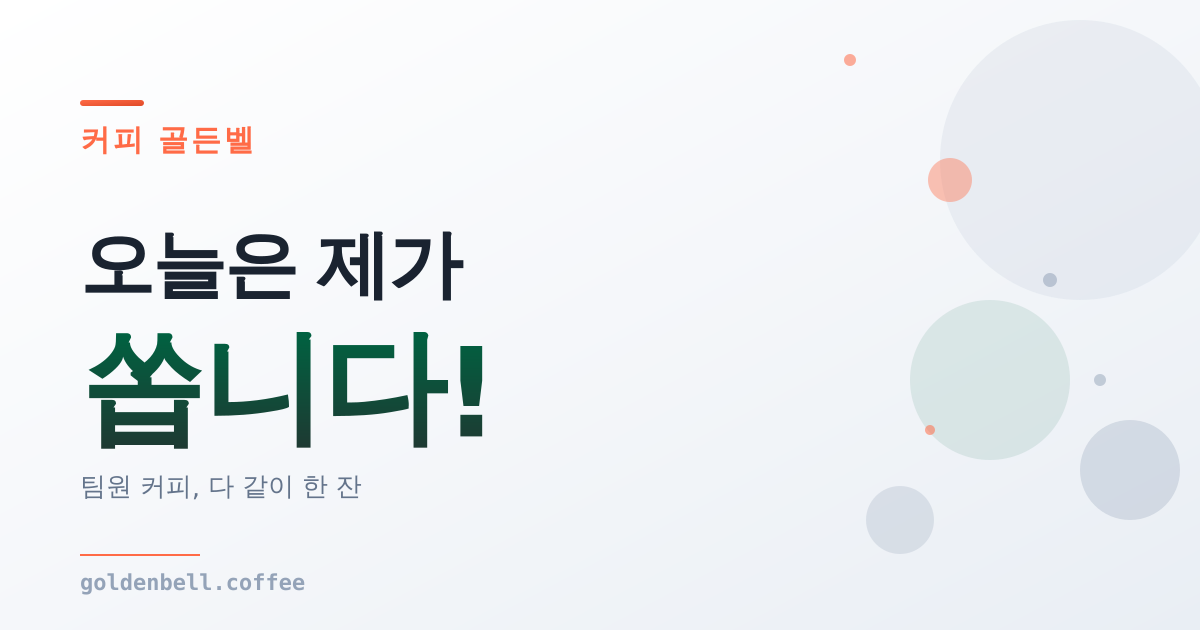
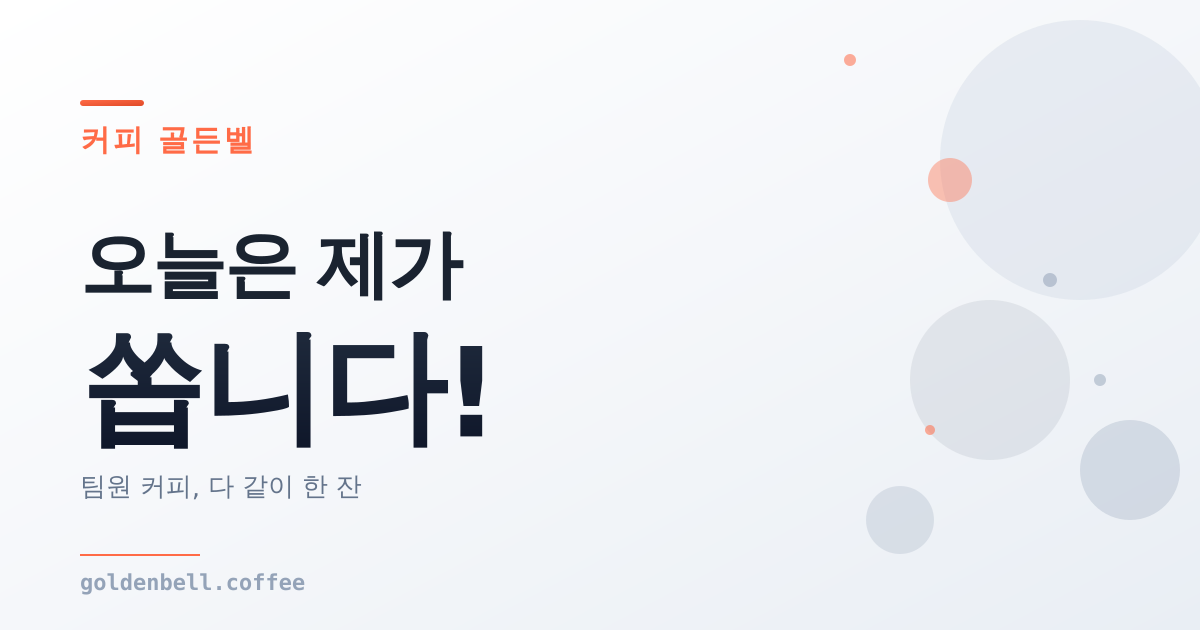
다크 그린 → 딥 네이비로 교체 (코랄과 조화)
코랄(#FF6B47)과 다크 그린(#006241)은 따뜻 계열끼리 서로 다른
방향이라 살짝 충돌. 딥 네이비(slate-800/900)로 교체해 코랄이
또렷하게 살도록.

변경:
- --sb-green: #006241 → #1e293b (slate-800)
- --sb-green-dark: #1e3932 → #0f172a (slate-900)
- --sb-green-rgb: 0,98,65 → 30,41,59
- --sb-light: #d4e9e2 → #e2e8f0 (slate-200)

영향 범위 (그린이 쓰이던 곳 자동 치환):
- 제출 버튼, 활성 chip, 카운트다운 배경
- 메뉴 그룹 헤더, H1/H3 제목
- 로고 '골든벨' 텍스트 색
- 주문 폼 라벨
- variant-size 텍스트
- 팀원 칩, 방장 안내문 등

OG 이미지:
- bigText 그라데이션 #006241→#1e3932 → #1e293b→#0f172a
- 데코 원 중 하나도 네이비로
- 텍스트 색감은 원래 cool navy 톤 유지

Changed region(s): [[0.0617, 0.5127, 0.4008, 0.7238]]

diff --git a/index.html b/index.html
@@ -27,10 +27,10 @@
 
 <style>
   :root {
-    --sb-green: #006241;
-    --sb-green-dark: #1e3932;
-    --sb-green-rgb: 0, 98, 65;
-    --sb-light: #d4e9e2;
+    --sb-green: #1e293b;         /* slate-800 — 주 액션 (기존 #006241에서 네이비로) */
+    --sb-green-dark: #0f172a;    /* slate-900 — 제목/헤더 */
+    --sb-green-rgb: 30, 41, 59;
+    --sb-light: #e2e8f0;         /* slate-200 — 옅은 액티브 배경 */
     --sb-accent: #FF6B47;        /* 코랄 — 포인트 전용 */
     --sb-accent-soft: #FFE5DD;   /* 옅은 피치 */
     /* 쿨톤 베이스 */
